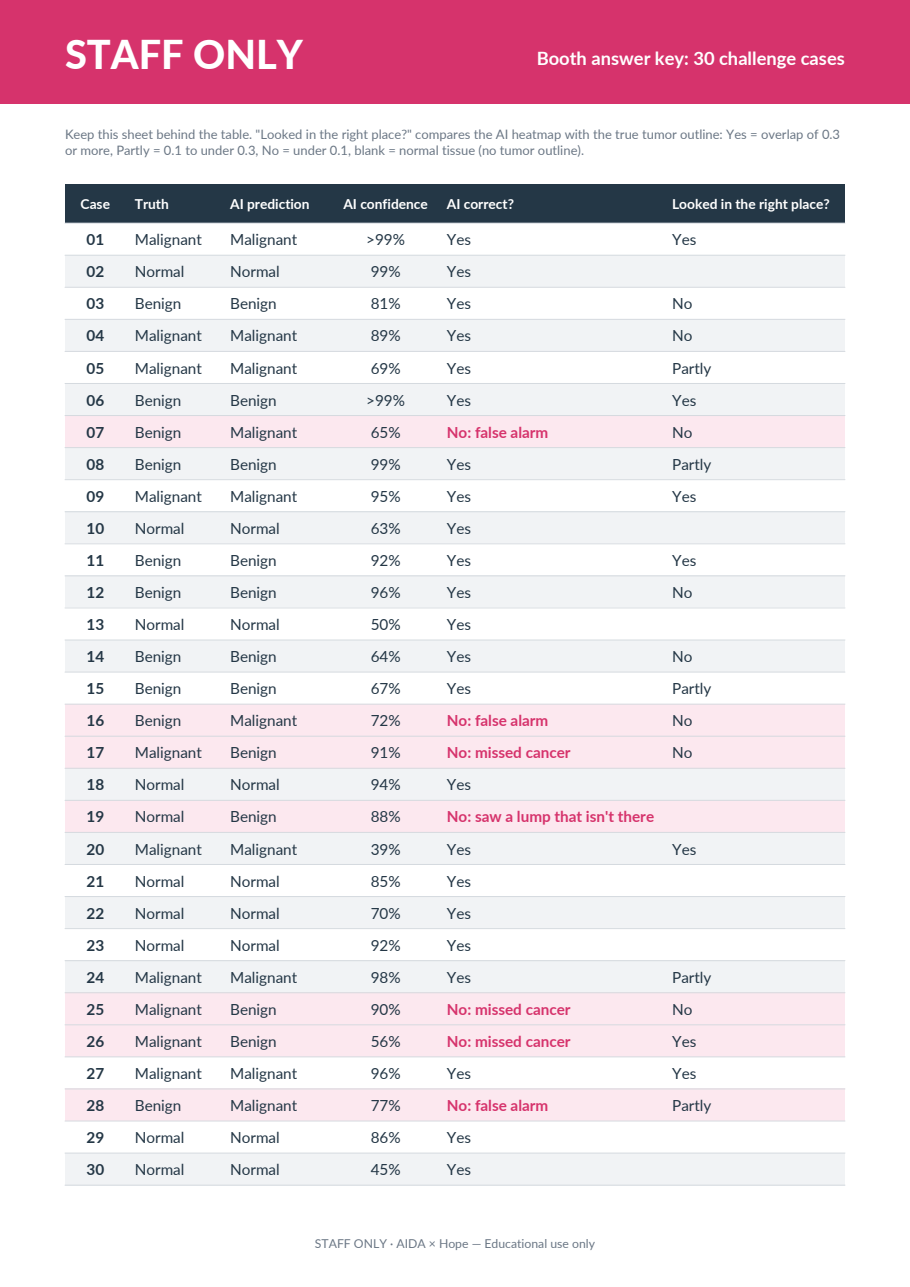
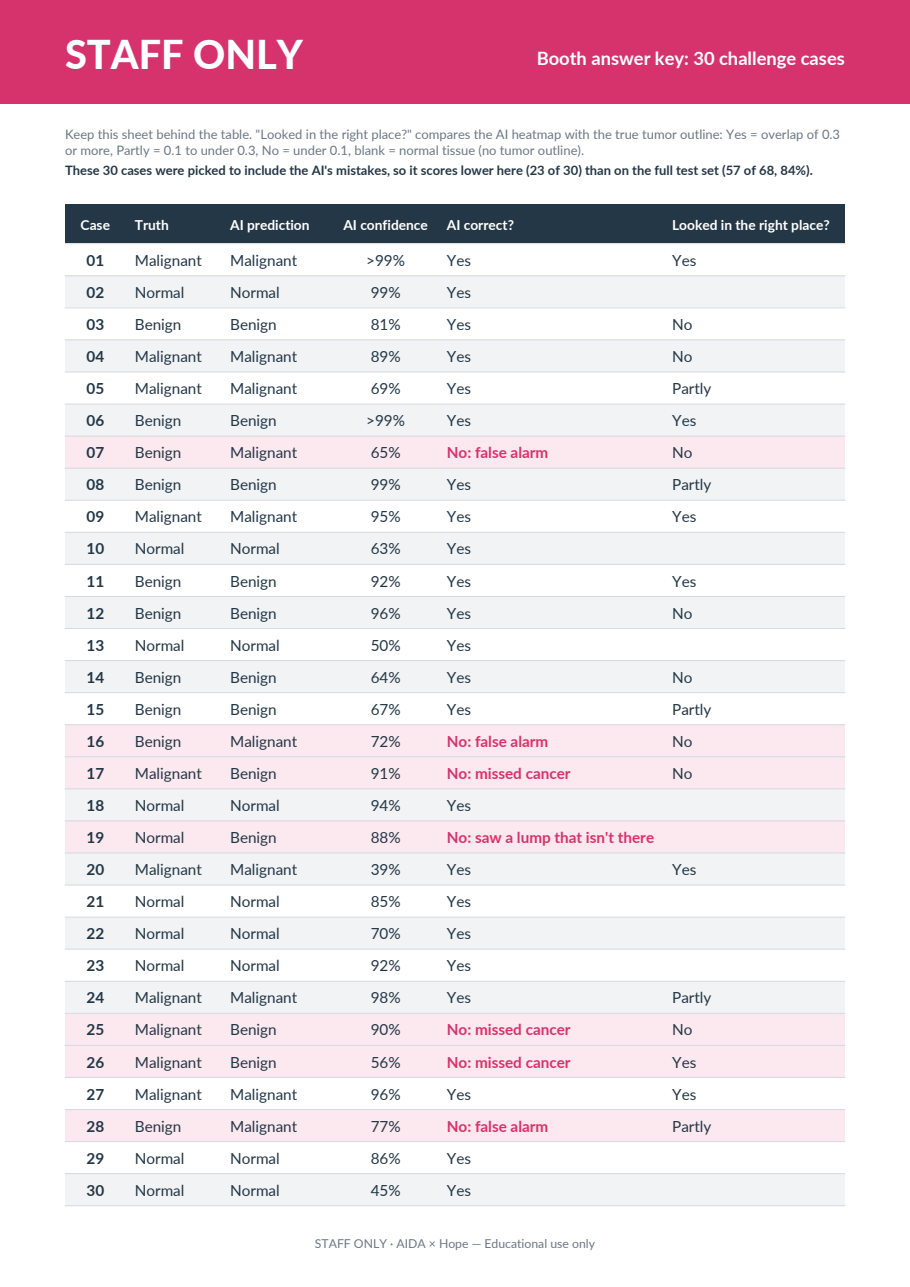
Heatmap-aware mistake lines; booth-set honesty note; heatmap caveat
- Missed cancers and false alarms now use the heatmap overlap: under 0.1
  "...and its heatmap wasn't even on the lump" (cards 17, 25, 07, 16),
  0.5 or more "...even though its heatmap was right on the lump" (card 26).
  EN + AR; tests pin the cards and the 0.1 / 0.5 boundaries.
- "These 30 cases were picked to include the AI's mistakes..." on the public
  Challenge intro, the round end screen and About (EN + AR). 23/30 is counted
  from booth_set.json and 57/68 from metrics.json (booth.booth_set_scores).
- One line under every heatmap and truth overlay (the overlay is drawn on
  the heatmap): "Heatmaps are a rough guide to where the AI looked, not
  proof of its reasoning." Booth and public views.
- Staff answer key: the same 23/30 sentence, computed by build_print.py;
  new --only switch rebuilds one PDF (only answer_key.pdf rebuilt here).

diff --git a/tests/test_public.py b/tests/test_public.py
@@ -199,6 +199,95 @@ class PublicAppTests(unittest.TestCase):
             with patch.object(booth.st, "session_state", {"lang": lang}):
                 self.assertEqual(namespace["explanation"](unmeasured), text["explain_right"])
 
+    def test_mistake_explanations_use_the_heatmap_overlap(self):
+        """Missed cancers and false alarms: overlap < 0.1 "not even on the lump", >= 0.5 "right on the lump"."""
+        import json
+        source = (ROOT / PAGES[0]).read_text(encoding="utf-8").replace("\nchallenge()\n", "\n")
+        namespace = {}
+        exec(compile(source, PAGES[0], "exec"), namespace)
+        explanation = namespace["explanation"]
+        cases = {case["case_id"]: case for case in
+                 json.loads((ROOT / "data" / "booth_set.json").read_text(encoding="utf-8"))}
+        en = booth.translations("en")
+        self.assertIn("and its heatmap wasn't even on the lump.", en["explain_missed_off_target"])
+        self.assertIn("even though its heatmap was right on the lump. Looking in the right place isn't the same "
+                      "as getting it right.", en["explain_missed_on_target"])
+        # The three missed cancers on the booth cards, and the false alarms.
+        expected = {"17": "explain_missed_off_target", "25": "explain_missed_off_target",
+                    "26": "explain_missed_on_target", "07": "explain_false_alarm_off_target",
+                    "16": "explain_false_alarm_off_target", "28": "explain_false_alarm"}
+        self.assertEqual({cid for cid, case in cases.items() if case["error_type"] in
+                          ("false_negative", "false_positive")}, set(expected))
+        for lang in ("en", "ar"):
+            text = booth.translations(lang)
+            with patch.object(booth.st, "session_state", {"lang": lang}):
+                for cid, key in expected.items():
+                    case = cases[cid]
+                    line = text[key].format(pred=text[case["ai_pred"]], truth=text[case["truth"]],
+                                            percent=case["ai_probs"][case["ai_pred"]] * 100)
+                    self.assertEqual(explanation(case), line, (lang, cid))
+                # Boundaries: < 0.1 off target, 0.1 to under 0.5 the plain line, >= 0.5 on target.
+                for cid, base in (("17", "explain_missed"), ("28", "explain_false_alarm")):
+                    for overlap, suffix in ((0.0, "_off_target"), (0.099, "_off_target"), (0.1, ""),
+                                            (0.499, ""), (0.5, "_on_target"), (1.0, "_on_target"), (None, "")):
+                        case = dict(cases[cid], cam_mask_overlap=overlap)
+                        prefix = text[base + suffix].split("{")[0]
+                        self.assertTrue(explanation(case).startswith(prefix), (lang, cid, overlap))
+                        self.assertEqual(explanation(case) == explanation(dict(case, cam_mask_overlap=None)),
+                                         suffix == "", (lang, cid, overlap))
+
+    def test_booth_set_note_is_counted_from_the_data(self):
+        import json
+        cases = json.loads((ROOT / "data" / "booth_set.json").read_text(encoding="utf-8"))
+        metrics = json.loads((ROOT / "data" / "reports" / "metrics.json").read_text(encoding="utf-8"))
+        scores = booth.booth_set_scores()
+        self.assertEqual((scores["right"], scores["n"]),
+                         (sum(case["truth"] == case["ai_pred"] for case in cases), len(cases)))
+        self.assertEqual((scores["right"], scores["n"]), (23, 30))
+        self.assertEqual((scores["test_right"], scores["test_n"]), (round(metrics["accuracy"] * metrics["n_test"]),
+                                                                    metrics["n_test"]))
+        self.assertEqual((scores["test_right"], scores["test_n"]), (57, 68))
+        with patch.object(booth.st, "session_state", {"lang": "en"}):
+            self.assertEqual(booth.booth_set_note(),
+                             "These 30 cases were picked to include the AI's mistakes, so it scores lower here "
+                             "(23 of 30) than on the full test set (57 of 68, 84%).")
+        # The staff answer key prints the same sentence from the same files.
+        import build_print
+        content, booth_cases, _ = build_print.load_inputs()
+        printed = " ".join(content["answer_key"]["booth_set_note"].split())
+        self.assertEqual(printed.format(**build_print.booth_set_scores(booth_cases)),
+                         booth.translations("en")["booth_set_note"].format(**scores))
+
+    def test_booth_set_note_on_intro_end_and_about(self):
+        for lang in ("en", "ar"):
+            note = booth.translations(lang)["booth_set_note"].format(**booth.booth_set_scores())
+            app = public_app(lang, PAGES[0])
+            self.assertIn(note, texts(app), (lang, "intro"))
+            click(app, key="play_round")
+            self.assertNotIn(note, texts(app), (lang, "mid-round"))
+            for _ in range(5):
+                play_case(app)
+            self.assertIn(note, texts(app), (lang, "end"))
+            app.switch_page(PAGES[3]).run()
+            self.assertIn(note, texts(app), (lang, "about"))
+
+    def test_line_under_every_heatmap(self):
+        for lang in ("en", "ar"):
+            line = booth.translations(lang)["heatmap_disclaimer"]
+            app = public_app(lang, PAGES[0])
+            click(app, key="play_round")
+            click(app, key="pick_normal")
+            self.assertNotIn(line, texts(app))  # no heatmap yet
+            click(app, key="public_reveal_ai")
+            self.assertEqual([c.value for c in app.caption].count(line), 1, (lang, "heatmap"))
+            click(app, key="public_reveal_truth")
+            self.assertEqual([c.value for c in app.caption].count(line), 1, (lang, "truth overlay"))
+            app = public_app(lang, PAGES[0])
+            app.toggle(key="show_wrong").set_value(True).run()
+            self.assertEqual([c.value for c in app.caption].count(line), 6, (lang, "patient folders"))
+        self.assertEqual(booth.translations("en")["heatmap_disclaimer"],
+                         "Heatmaps are a rough guide to where the AI looked, not proof of its reasoning.")
+
     def test_public_mode_never_writes_files(self):
         with tempfile.TemporaryDirectory() as temporary, \
                 patch.object(booth, "RESULTS_PATH", Path(temporary) / "results.csv"):

diff --git a/scripts/build_print.py b/scripts/build_print.py
@@ -2,6 +2,7 @@
 
 Run from the project folder (Windows):
     .venv\\Scripts\\python.exe scripts\\build_print.py
+    .venv\\Scripts\\python.exe scripts\\build_print.py --only answer_key   (one PDF + its page-1 preview)
 
 Outputs go to print_out/:
     case_cards.pdf       30 A5 challenge cards (no answers on them)
@@ -213,6 +214,15 @@ def load_inputs() -> tuple[dict, list[dict], dict[str, dict]]:
     return content, booth, predictions
 
 
+def booth_set_scores(booth: list[dict]) -> dict:
+    """The AI's score on the booth cases vs the full test set (same numbers as booth.booth_set_scores)."""
+    metrics = json.loads((DATA / "reports" / "metrics.json").read_text(encoding="utf-8"))
+    matrix = metrics["confusion_matrix"]["matrix"]
+    test_right, test_n = sum(matrix[i][i] for i in range(len(matrix))), metrics["n_test"]
+    return {"n": len(booth), "right": sum(case["correct"] is True for case in booth),
+            "test_right": test_right, "test_n": test_n, "test_percent": test_right / test_n * 100}
+
+
 def overlap_label(case: dict) -> str:
     """Same thresholds as the app: >=0.3 yes, 0.1-0.3 partly, <0.1 no, blank for normal."""
     overlap = case.get("cam_mask_overlap")
@@ -299,6 +309,8 @@ def build_answer_key(content: dict, booth: list[dict]) -> Path:
     c.setFont(SANS_BOLD, 12)
     c.drawRightString(width - margin, height - 15 * mm, text["title"])
     y = draw_text(c, text["note"], margin, height - 32 * mm, width - 2 * margin, SANS, 8.5, GREY)
+    y = draw_text(c, text["booth_set_note"].format(**booth_set_scores(booth)), margin, y - 1 * mm,
+                  width - 2 * margin, SANS_BOLD, 8.5, INK)
 
     rows = [text["columns"]]
     wrong_rows = []
@@ -957,22 +969,26 @@ def build_poster(content: dict, booth: list[dict]) -> Path:
 # ---------------------------------------------------------------------------
 # Previews
 # ---------------------------------------------------------------------------
-def export_previews(pdfs: dict[str, Path]) -> list[Path]:
-    """Page 1 of every PDF, plus every page of folder 1, as PNG."""
+def export_preview(pdf_path: Path, page_index: int, name: str, dpi: int) -> Path:
     import pypdfium2 as pdfium
 
+    PREVIEWS.mkdir(parents=True, exist_ok=True)
+    document = pdfium.PdfDocument(str(pdf_path))
+    target = PREVIEWS / name
+    document[page_index].render(scale=dpi / 72).to_pil().save(target)
+    document.close()
+    return target
+
+
+def export_previews(pdfs: dict[str, Path]) -> list[Path]:
+    """Page 1 of every PDF, plus every page of folder 1, as PNG."""
     PREVIEWS.mkdir(parents=True, exist_ok=True)
     for old in PREVIEWS.glob("*.png"):
         old.unlink()
     written = []
 
     def render(pdf_path: Path, page_index: int, name: str, dpi: int) -> None:
-        document = pdfium.PdfDocument(str(pdf_path))
-        image = document[page_index].render(scale=dpi / 72).to_pil()
-        target = PREVIEWS / name
-        image.save(target)
-        written.append(target)
-        document.close()
+        written.append(export_preview(pdf_path, page_index, name, dpi))
 
     for key, pdf_path in pdfs.items():
         render(pdf_path, 0, f"{key}_p1.png", 40 if key == "poster_A2" else 110)
@@ -984,16 +1000,26 @@ def export_previews(pdfs: dict[str, Path]) -> list[Path]:
 
 
 def main() -> None:
+    import argparse
+
+    builders = {"case_cards": lambda: build_case_cards(content, booth),
+                "answer_key": lambda: build_answer_key(content, booth),
+                "folders": lambda: build_folders(content, predictions),
+                "tips_card": lambda: build_tips_card(content),
+                "takehome_cards": lambda: build_takehome(content),
+                "poster_A2": lambda: build_poster(content, booth)}
+    parser = argparse.ArgumentParser(description="Build the printed booth materials.")
+    parser.add_argument("--only", choices=list(builders), help="rebuild just this PDF and its page-1 preview")
+    only = parser.parse_args().only
     notes = register_fonts()
     content, booth, predictions = load_inputs()
     OUT.mkdir(exist_ok=True)
-    pdfs = {"case_cards": build_case_cards(content, booth),
-            "answer_key": build_answer_key(content, booth),
-            "folders": build_folders(content, predictions),
-            "tips_card": build_tips_card(content),
-            "takehome_cards": build_takehome(content),
-            "poster_A2": build_poster(content, booth)}
-    previews = export_previews(pdfs)
+    if only:
+        pdfs = {only: builders[only]()}
+        previews = [export_preview(pdfs[only], 0, f"{only}_p1.png", 40 if only == "poster_A2" else 110)]
+    else:
+        pdfs = {name: build() for name, build in builders.items()}
+        previews = export_previews(pdfs)
     for name, pdf in pdfs.items():
         print(f"{pdf.relative_to(ROOT)}  ({pdf.stat().st_size / 1e6:.1f} MB)")
     print(f"{len(previews)} previews in {PREVIEWS.relative_to(ROOT)}")

diff --git a/pages/1_Challenge_Reveal.py b/pages/1_Challenge_Reveal.py
@@ -9,8 +9,8 @@ import random
 
 import streamlit as st
 
-from booth import (ROOT, BoothError, CLASSES, PUBLIC_ASSET_FIELDS, asset_path, card_case_id, choose_answer,
-                   keep_answer, load_cases, next_visitor, public_mode, save_round, set_phase,
+from booth import (ROOT, BoothError, CLASSES, PUBLIC_ASSET_FIELDS, asset_path, booth_set_note, card_case_id,
+                   choose_answer, keep_answer, load_cases, next_visitor, public_mode, save_round, set_phase,
                    start_round, t, zoomable_image)
 
 ROUND_SIZE = 5
@@ -67,14 +67,33 @@ def overlap_label(case: dict) -> str | None:
     return "overlap_yes" if overlap >= 0.3 else "overlap_partly" if overlap >= 0.1 else "overlap_no"
 
 
+def heatmap_disclaimer() -> None:
+    """The line under every heatmap (the truth overlay is drawn on the heatmap too)."""
+    st.caption(t("heatmap_disclaimer"))
+
+
+def honesty_note() -> None:
+    note = booth_set_note()
+    if note:
+        st.caption(note)
+
+
+def heatmap_target(case: dict) -> str:
+    """For an AI mistake: "_off_target" (overlap under 0.1), "_on_target" (0.5 or more), else ""."""
+    overlap = case["cam_mask_overlap"]
+    if case["truth"] == "normal" or overlap is None:
+        return ""
+    return "_off_target" if overlap < 0.1 else "_on_target" if overlap >= 0.5 else ""
+
+
 def explanation(case: dict) -> str:
     """One line on what this case shows about the AI."""
     pred, truth = t(case["ai_pred"]), t(case["truth"])
     percent = case["ai_probs"][case["ai_pred"]] * 100
     if case["error_type"] == "false_negative":
-        key = "explain_missed"
+        key = "explain_missed" + heatmap_target(case)
     elif case["error_type"] == "false_positive":
-        key = "explain_false_alarm"
+        key = "explain_false_alarm" + heatmap_target(case)
     elif not case["correct"]:
         key = "explain_saw_lump" if case["truth"] == "normal" else "explain_mixed"
     elif case["truth"] == "normal":
@@ -139,6 +158,7 @@ def booth_challenge(cases: dict) -> None:
             with column:
                 st.image(str(asset_path(case[field], case["case_id"], field)), caption=t(caption),
                          width=320 if phase == "done" else 420)
+        heatmap_disclaimer()
     else:
         picture, choice = st.columns([1, 1.2], gap="large")
         with picture:
@@ -231,6 +251,7 @@ def score(state: dict) -> tuple[int, int, int]:
 
 def public_start(cases: dict) -> None:
     st.write(t("public_challenge_intro"))
+    honesty_note()
     with st.container(border=True):
         st.subheader(t("play_round_title"))
         st.write(t("play_round_text", n=ROUND_SIZE))
@@ -276,6 +297,7 @@ def wrong_cases(cases: dict) -> None:
                        percent=case["ai_probs"][case["ai_pred"]] * 100))
             zoomable_image(asset_path(case["mask_overlay"], cid, "mask_overlay"), t("truth_overlay"),
                            key=f"wrong{cid}")
+            heatmap_disclaimer()
             st.write(t(f"wrong_{cid}_text"))
 
 
@@ -300,12 +322,14 @@ def public_case(state: dict) -> None:
     confidence_bars(case)
     if phase == "ai":
         zoomable_image(asset_path(case["heatmap"], cid, "heatmap"), t("heatmap_image"), key=f"heat{cid}")
+        heatmap_disclaimer()
         st.button(t("reveal_truth"), key="public_reveal_truth", type="primary", width="stretch",
                   on_click=public_step, args=("truth",))
         return
     result_box(case, state["answer"])
     st.markdown(f"**{html.escape(explanation(case), quote=False)}**")
     zoomable_image(asset_path(case["mask_overlay"], cid, "mask_overlay"), t("truth_overlay"), key=f"truth{cid}")
+    heatmap_disclaimer()
     you, ai, played = score(state)
     st.markdown('<div class="booth-score" role="status">'
                 + html.escape(t("score_line", you=you, ai=ai, total=played)) + '</div>', unsafe_allow_html=True)
@@ -319,6 +343,7 @@ def public_end(state: dict) -> None:
     st.subheader(t("end_title"))
     st.markdown('<div class="booth-score" role="status">'
                 + html.escape(t("score_line", you=you, ai=ai, total=played)) + '</div>', unsafe_allow_html=True)
+    honesty_note()
     st.markdown('<div class="booth-station">' + html.escape(t("station_message"), quote=False) + '</div>',
                 unsafe_allow_html=True)
     what_we_learned(stacked=True)

diff --git a/booth.py b/booth.py
@@ -263,6 +263,26 @@ def load_cases(assets: tuple[str, ...] = ASSET_FIELDS) -> dict[str, dict]:
     return indexed
 
 
+def booth_set_scores() -> dict | None:
+    """The AI's score on the booth cases and on the full test set, counted from data/booth_set.json
+    and data/reports/metrics.json (never typed in). None if either file cannot be read."""
+    try:
+        cases = json.loads((ROOT / "data" / "booth_set.json").read_text(encoding="utf-8"))
+        metrics = json.loads((ROOT / "data" / "reports" / "metrics.json").read_text(encoding="utf-8"))
+        matrix = metrics["confusion_matrix"]["matrix"]
+        test_right, test_n = sum(matrix[i][i] for i in range(len(matrix))), metrics["n_test"]
+        return {"n": len(cases), "right": sum(case["correct"] is True for case in cases),
+                "test_right": test_right, "test_n": test_n, "test_percent": test_right / test_n * 100}
+    except (OSError, ValueError, KeyError, TypeError, IndexError, ZeroDivisionError):
+        return None
+
+
+def booth_set_note() -> str | None:
+    """Why the AI scores lower on the booth cases than on the full test set."""
+    scores = booth_set_scores()
+    return t("booth_set_note", **scores) if scores else None
+
+
 def start_round(case: dict) -> None:
     # Snapshot the case, so replacing the dataset mid-round cannot change its truth.
     st.session_state["round"] = {"case": case, "phase": "first", "first_answer": None,

diff --git a/tests/test_app.py b/tests/test_app.py
@@ -108,8 +108,11 @@ class BoothTests(unittest.TestCase):
         self.assertFalse(self.results.exists())
         self.button(app, "Malignant")
         self.assertNotIn("Reveal truth", [button.label for button in app.button])
+        heatmap_line = booth.translations("en")["heatmap_disclaimer"]
+        self.assertNotIn(heatmap_line, [caption.value for caption in app.caption])
         self.button(app, "Reveal AI")
         self.assertEqual(len(app.get("progress")), 3)
+        self.assertEqual([caption.value for caption in app.caption].count(heatmap_line), 1)
         self.button(app, "Keep my answer")
         self.assertFalse(self.results.exists())
         self.button(app, "Reveal truth")

diff --git a/pages/4_About.py b/pages/4_About.py
@@ -3,7 +3,7 @@ import json
 
 import streamlit as st
 
-from booth import ROOT, t
+from booth import ROOT, booth_set_note, t
 
 REPORTS = ROOT / "data" / "reports"
 
@@ -40,6 +40,9 @@ else:
     st.write(t("about_results_text", n=n, accuracy=metrics["accuracy"] * 100, caught=caught,
                total=caught + missed, missed=missed, alarms=metrics["false_alarms"]))
     st.warning(t("about_small_test", n=n))
+    note = booth_set_note()
+    if note:
+        st.info(note)
     matrix = REPORTS / "confusion_matrix.png"
     if matrix.is_file():
         st.image(str(matrix), caption=t("about_matrix_caption", n=n), width=520)
